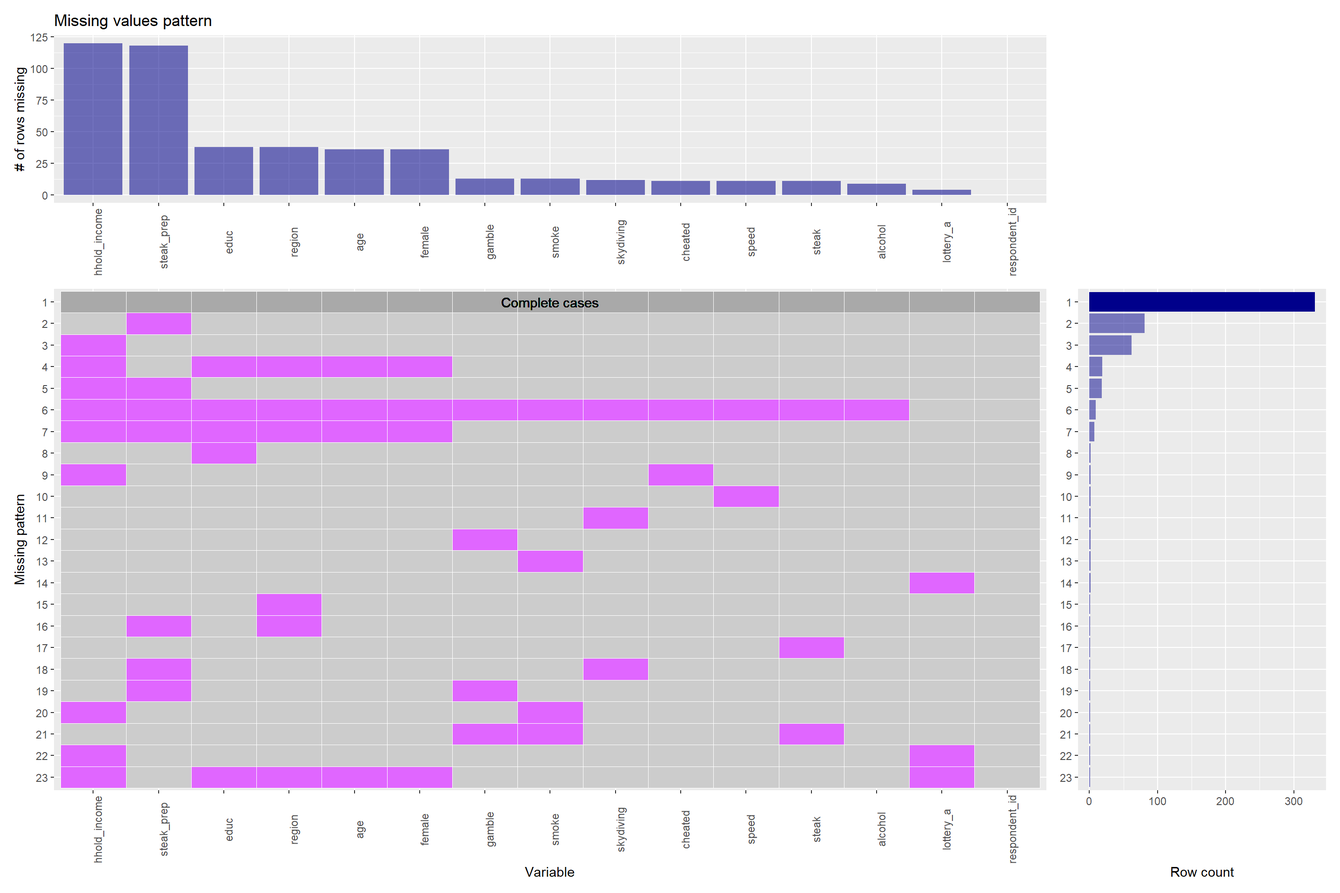
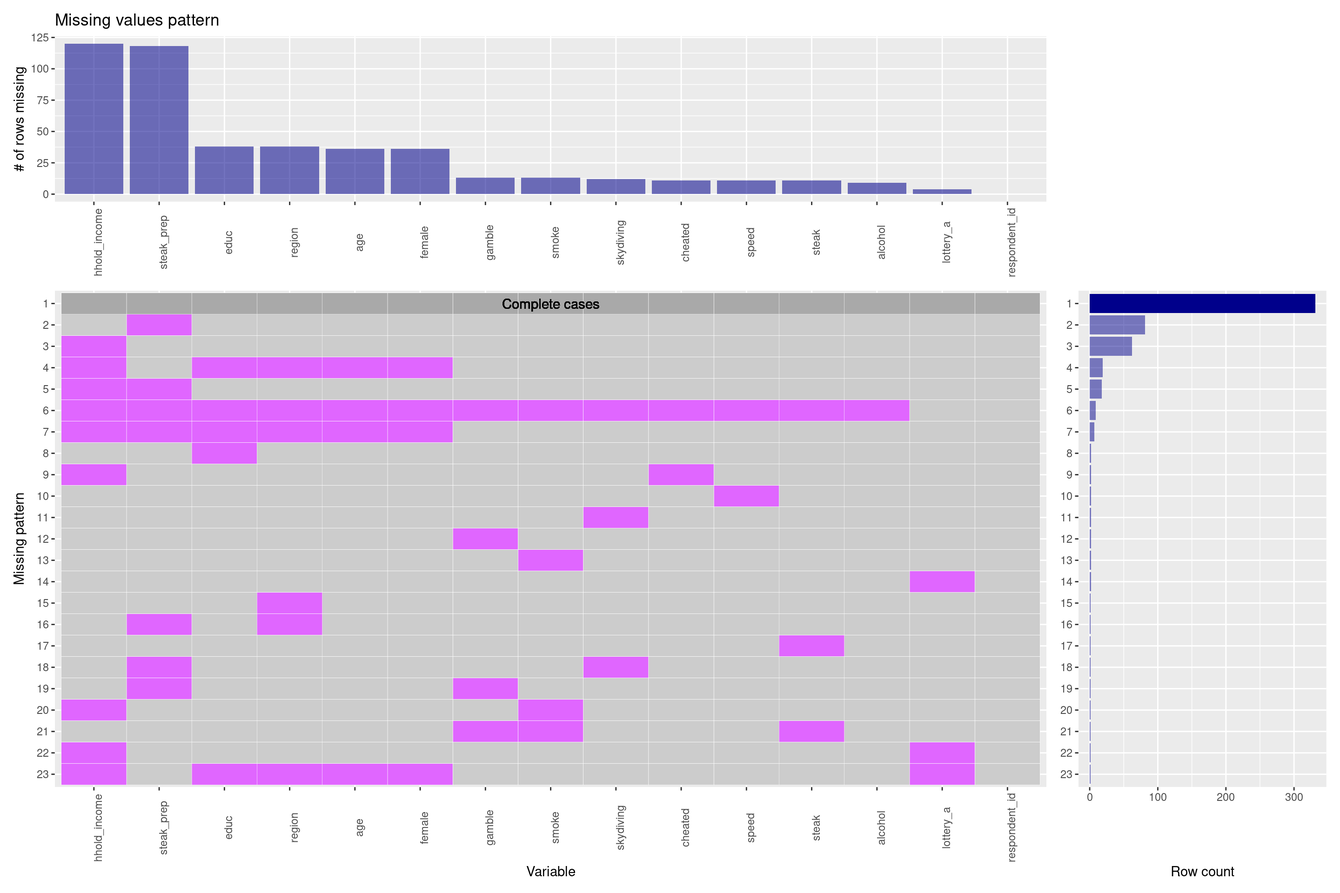
02 health vars

diff --git a/docs/missing-values.html b/docs/missing-values.html
@@ -141,7 +141,12 @@ code span.wa { color: #60a0b0; font-weight: bold; font-style: italic; } /* Warni
 <li class="chapter" data-level="1" data-path="index.html"><a href="index.html"><i class="fa fa-check"></i><b>1</b> Introduction</a></li>
 <li class="chapter" data-level="2" data-path="data-sources.html"><a href="data-sources.html"><i class="fa fa-check"></i><b>2</b> Data sources</a>
 <ul>
-<li class="chapter" data-level="2.1" data-path="data-sources.html"><a href="data-sources.html#health-data"><i class="fa fa-check"></i><b>2.1</b> Health data</a></li>
+<li class="chapter" data-level="2.1" data-path="data-sources.html"><a href="data-sources.html#health-data"><i class="fa fa-check"></i><b>2.1</b> Health data</a>
+<ul>
+<li class="chapter" data-level="2.1.1" data-path="data-sources.html"><a href="data-sources.html#epidemiological-variables"><i class="fa fa-check"></i><b>2.1.1</b> Epidemiological variables</a></li>
+<li class="chapter" data-level="2.1.2" data-path="data-sources.html"><a href="data-sources.html#policy-measures"><i class="fa fa-check"></i><b>2.1.2</b> Policy measures</a></li>
+<li class="chapter" data-level="2.1.3" data-path="data-sources.html"><a href="data-sources.html#administrative-areas"><i class="fa fa-check"></i><b>2.1.3</b> Administrative areas</a></li>
+</ul></li>
 <li class="chapter" data-level="2.2" data-path="data-sources.html"><a href="data-sources.html#macroeconomic-data"><i class="fa fa-check"></i><b>2.2</b> Macroeconomic data</a>
 <ul>
 <li class="chapter" data-level="2.2.1" data-path="data-sources.html"><a href="data-sources.html#economic-growth"><i class="fa fa-check"></i><b>2.2.1</b> Economic Growth</a></li>
@@ -197,38 +202,24 @@ code span.wa { color: #60a0b0; font-weight: bold; font-style: italic; } /* Warni
 <span id="cb5-6"><a href="missing-values.html#cb5-6" aria-hidden="true" tabindex="-1"></a>inflation_us <span class="ot">&lt;-</span> <span class="fu">read.csv</span>(<span class="st">&quot;Data/COVID_usa.csv&quot;</span>, <span class="at">stringsAsFactors =</span> F)</span>
 <span id="cb5-7"><a href="missing-values.html#cb5-7" aria-hidden="true" tabindex="-1"></a></span>
 <span id="cb5-8"><a href="missing-values.html#cb5-8" aria-hidden="true" tabindex="-1"></a></span>
-<span id="cb5-9"><a href="missing-values.html#cb5-9" aria-hidden="true" tabindex="-1"></a><span class="fu">names</span>(inflation_mx)</span></code></pre></div>
-<pre><code>##  [1] &quot;date&quot;                                &quot;confirmed&quot;                          
-##  [3] &quot;deaths&quot;                              &quot;recovered&quot;                          
-##  [5] &quot;tests&quot;                               &quot;vaccines&quot;                           
-##  [7] &quot;people_vaccinated&quot;                   &quot;people_fully_vaccinated&quot;            
-##  [9] &quot;hosp&quot;                                &quot;icu&quot;                                
-## [11] &quot;vent&quot;                                &quot;population&quot;                         
-## [13] &quot;school_closing&quot;                      &quot;workplace_closing&quot;                  
-## [15] &quot;cancel_events&quot;                       &quot;gatherings_restrictions&quot;            
-## [17] &quot;transport_closing&quot;                   &quot;stay_home_restrictions&quot;             
-## [19] &quot;internal_movement_restrictions&quot;      &quot;international_movement_restrictions&quot;
-## [21] &quot;information_campaigns&quot;               &quot;testing_policy&quot;                     
-## [23] &quot;contact_tracing&quot;                     &quot;facial_coverings&quot;                   
-## [25] &quot;vaccination_policy&quot;                  &quot;elderly_people_protection&quot;          
-## [27] &quot;government_response_index&quot;           &quot;stringency_index&quot;                   
-## [29] &quot;containment_health_index&quot;            &quot;economic_support_index&quot;</code></pre>
-<div class="sourceCode" id="cb7"><pre class="sourceCode r"><code class="sourceCode r"><span id="cb7-1"><a href="missing-values.html#cb7-1" aria-hidden="true" tabindex="-1"></a>a<span class="ot">&lt;-</span><span class="fu">c</span>(<span class="st">&quot;date&quot;</span>,<span class="st">&quot;confirmed&quot;</span>,<span class="st">&quot;deaths&quot;</span>, <span class="st">&quot;recovered&quot;</span>,<span class="st">&quot;tests&quot;</span>,<span class="st">&quot;vaccines&quot;</span>,</span>
-<span id="cb7-2"><a href="missing-values.html#cb7-2" aria-hidden="true" tabindex="-1"></a>  <span class="st">&quot;peop_vacc&quot;</span>,<span class="st">&quot;peop_f_vac&quot;</span>,<span class="st">&quot;hosp&quot;</span>,<span class="st">&quot;icu&quot;</span>,<span class="st">&quot;vent&quot;</span>,<span class="st">&quot;population&quot;</span>,</span>
-<span id="cb7-3"><a href="missing-values.html#cb7-3" aria-hidden="true" tabindex="-1"></a>  <span class="st">&quot;school_close&quot;</span>,<span class="st">&quot;workpl_close&quot;</span>,<span class="st">&quot;cancel_events&quot;</span>,<span class="st">&quot;gatherings_res&quot;</span>,</span>
-<span id="cb7-4"><a href="missing-values.html#cb7-4" aria-hidden="true" tabindex="-1"></a>  <span class="st">&quot;transport_close&quot;</span>,<span class="st">&quot;stay_home_r&quot;</span>,<span class="st">&quot;int_move_rest&quot;</span>,</span>
-<span id="cb7-5"><a href="missing-values.html#cb7-5" aria-hidden="true" tabindex="-1"></a>  <span class="st">&quot;internat_move_rest&quot;</span>, <span class="st">&quot;inf_camp&quot;</span>, <span class="st">&quot;test_policy&quot;</span>,<span class="st">&quot;contact_trace&quot;</span>,</span>
-<span id="cb7-6"><a href="missing-values.html#cb7-6" aria-hidden="true" tabindex="-1"></a>  <span class="st">&quot;facial_cover&quot;</span>, <span class="st">&quot;vaccin_policy&quot;</span>, <span class="st">&quot;elderly_peop_protec&quot;</span>, <span class="st">&quot;gover_resp_ind&quot;</span>, <span class="st">&quot;string_ind&quot;</span>, <span class="st">&quot;cont_health_ind&quot;</span>,<span class="st">&quot;econ_supp_ind&quot;</span></span>
-<span id="cb7-7"><a href="missing-values.html#cb7-7" aria-hidden="true" tabindex="-1"></a>  )</span>
-<span id="cb7-8"><a href="missing-values.html#cb7-8" aria-hidden="true" tabindex="-1"></a></span>
-<span id="cb7-9"><a href="missing-values.html#cb7-9" aria-hidden="true" tabindex="-1"></a><span class="fu">visualize_missings</span>(inflation_mx)</span></code></pre></div>
+<span id="cb5-9"><a href="missing-values.html#cb5-9" aria-hidden="true" tabindex="-1"></a><span class="fu">names</span>(inflation_mx)<span class="ot">&lt;-</span><span class="fu">c</span>(<span class="st">&quot;date&quot;</span>,<span class="st">&quot;confirmed&quot;</span>,<span class="st">&quot;deaths&quot;</span>, <span class="st">&quot;recovered&quot;</span>,<span class="st">&quot;tests&quot;</span>,<span class="st">&quot;vaccines&quot;</span>,</span>
+<span id="cb5-10"><a href="missing-values.html#cb5-10" aria-hidden="true" tabindex="-1"></a>  <span class="st">&quot;peop_vacc&quot;</span>,<span class="st">&quot;peop_f_vac&quot;</span>,<span class="st">&quot;hosp&quot;</span>,<span class="st">&quot;icu&quot;</span>,<span class="st">&quot;vent&quot;</span>,<span class="st">&quot;population&quot;</span>,</span>
+<span id="cb5-11"><a href="missing-values.html#cb5-11" aria-hidden="true" tabindex="-1"></a>  <span class="st">&quot;school_close&quot;</span>,<span class="st">&quot;workpl_close&quot;</span>,<span class="st">&quot;cancel_events&quot;</span>,<span class="st">&quot;gatherings_res&quot;</span>,</span>
+<span id="cb5-12"><a href="missing-values.html#cb5-12" aria-hidden="true" tabindex="-1"></a>  <span class="st">&quot;transport_close&quot;</span>,<span class="st">&quot;stay_home_r&quot;</span>,<span class="st">&quot;int_move_rest&quot;</span>,</span>
+<span id="cb5-13"><a href="missing-values.html#cb5-13" aria-hidden="true" tabindex="-1"></a>  <span class="st">&quot;internat_move_rest&quot;</span>, <span class="st">&quot;inf_camp&quot;</span>, <span class="st">&quot;test_policy&quot;</span>,<span class="st">&quot;contact_trace&quot;</span>,</span>
+<span id="cb5-14"><a href="missing-values.html#cb5-14" aria-hidden="true" tabindex="-1"></a>  <span class="st">&quot;facial_cover&quot;</span>, <span class="st">&quot;vaccin_policy&quot;</span>, <span class="st">&quot;elderly_peop_protec&quot;</span>, <span class="st">&quot;gover_resp_ind&quot;</span>, <span class="st">&quot;string_ind&quot;</span>, <span class="st">&quot;cont_health_ind&quot;</span>,<span class="st">&quot;econ_supp_ind&quot;</span></span>
+<span id="cb5-15"><a href="missing-values.html#cb5-15" aria-hidden="true" tabindex="-1"></a>  )</span>
+<span id="cb5-16"><a href="missing-values.html#cb5-16" aria-hidden="true" tabindex="-1"></a></span>
+<span id="cb5-17"><a href="missing-values.html#cb5-17" aria-hidden="true" tabindex="-1"></a><span class="fu">names</span>(inflation_us)<span class="ot">&lt;-</span><span class="fu">names</span>(inflation_mx)</span>
+<span id="cb5-18"><a href="missing-values.html#cb5-18" aria-hidden="true" tabindex="-1"></a></span>
+<span id="cb5-19"><a href="missing-values.html#cb5-19" aria-hidden="true" tabindex="-1"></a><span class="fu">visualize_missings</span>(inflation_mx)</span></code></pre></div>
 <p><img src="finalproj_files/figure-html/unnamed-chunk-11-1.png" width="672" /></p>
-<div class="sourceCode" id="cb8"><pre class="sourceCode r"><code class="sourceCode r"><span id="cb8-1"><a href="missing-values.html#cb8-1" aria-hidden="true" tabindex="-1"></a><span class="fu">visualize_missings</span>(inflation_us)</span></code></pre></div>
+<div class="sourceCode" id="cb6"><pre class="sourceCode r"><code class="sourceCode r"><span id="cb6-1"><a href="missing-values.html#cb6-1" aria-hidden="true" tabindex="-1"></a><span class="fu">visualize_missings</span>(inflation_us)</span></code></pre></div>
 <p><img src="finalproj_files/figure-html/unnamed-chunk-11-2.png" width="672" /></p>
 <p>Thus, we then proceed to showcase <code>visualize_missings</code> on the example dataset:</p>
-<div class="sourceCode" id="cb9"><pre class="sourceCode r"><code class="sourceCode r"><span id="cb9-1"><a href="missing-values.html#cb9-1" aria-hidden="true" tabindex="-1"></a><span class="fu">visualize_missings</span>(fivethirtyeight<span class="sc">::</span>steak_survey,T)</span></code></pre></div>
+<div class="sourceCode" id="cb7"><pre class="sourceCode r"><code class="sourceCode r"><span id="cb7-1"><a href="missing-values.html#cb7-1" aria-hidden="true" tabindex="-1"></a><span class="fu">visualize_missings</span>(fivethirtyeight<span class="sc">::</span>steak_survey,T)</span></code></pre></div>
 <p><img src="finalproj_files/figure-html/unnamed-chunk-12-1.png" width="1440" style="display: block; margin: auto;" /></p>
-<div class="sourceCode" id="cb10"><pre class="sourceCode r"><code class="sourceCode r"><span id="cb10-1"><a href="missing-values.html#cb10-1" aria-hidden="true" tabindex="-1"></a><span class="fu">visualize_missings</span>(fivethirtyeight<span class="sc">::</span>steak_survey,F)</span></code></pre></div>
+<div class="sourceCode" id="cb8"><pre class="sourceCode r"><code class="sourceCode r"><span id="cb8-1"><a href="missing-values.html#cb8-1" aria-hidden="true" tabindex="-1"></a><span class="fu">visualize_missings</span>(fivethirtyeight<span class="sc">::</span>steak_survey,F)</span></code></pre></div>
 <p><img src="finalproj_files/figure-html/unnamed-chunk-12-2.png" width="1440" style="display: block; margin: auto;" /></p>
 <p>We can observe that rows without NAs are the most frequent, accounting for around 60% of them. <code>hhold</code> and <code>steak_prep</code> are the variables with the highest percentage of missing values, having around 20% each.</p>
 <p>Also interesting to note is the fact that when there are NAs in <code>educ</code>, there are also NAs in <code>region</code>, <code>age</code> and <code>female</code>, indicating that such variables come in batch.</p>

diff --git a/docs/data-sources.html b/docs/data-sources.html
@@ -141,7 +141,12 @@ code span.wa { color: #60a0b0; font-weight: bold; font-style: italic; } /* Warni
 <li class="chapter" data-level="1" data-path="index.html"><a href="index.html"><i class="fa fa-check"></i><b>1</b> Introduction</a></li>
 <li class="chapter" data-level="2" data-path="data-sources.html"><a href="data-sources.html"><i class="fa fa-check"></i><b>2</b> Data sources</a>
 <ul>
-<li class="chapter" data-level="2.1" data-path="data-sources.html"><a href="data-sources.html#health-data"><i class="fa fa-check"></i><b>2.1</b> Health data</a></li>
+<li class="chapter" data-level="2.1" data-path="data-sources.html"><a href="data-sources.html#health-data"><i class="fa fa-check"></i><b>2.1</b> Health data</a>
+<ul>
+<li class="chapter" data-level="2.1.1" data-path="data-sources.html"><a href="data-sources.html#epidemiological-variables"><i class="fa fa-check"></i><b>2.1.1</b> Epidemiological variables</a></li>
+<li class="chapter" data-level="2.1.2" data-path="data-sources.html"><a href="data-sources.html#policy-measures"><i class="fa fa-check"></i><b>2.1.2</b> Policy measures</a></li>
+<li class="chapter" data-level="2.1.3" data-path="data-sources.html"><a href="data-sources.html#administrative-areas"><i class="fa fa-check"></i><b>2.1.3</b> Administrative areas</a></li>
+</ul></li>
 <li class="chapter" data-level="2.2" data-path="data-sources.html"><a href="data-sources.html#macroeconomic-data"><i class="fa fa-check"></i><b>2.2</b> Macroeconomic data</a>
 <ul>
 <li class="chapter" data-level="2.2.1" data-path="data-sources.html"><a href="data-sources.html#economic-growth"><i class="fa fa-check"></i><b>2.2.1</b> Economic Growth</a></li>
@@ -196,6 +201,60 @@ code span.wa { color: #60a0b0; font-weight: bold; font-style: italic; } /* Warni
 </ul>
 <div id="health-data" class="section level2" number="2.1">
 <h2><span class="header-section-number">2.1</span> Health data</h2>
+<p>For this category of variables, team member Ulises Hernandez located a very well polished R package <a href="https://covid19datahub.io/">COVID19</a> of data related to the COVID-19 pandemic. This repository was was initiated by Emanuele Guidotti (University of Neuchâtel), leveraged by David Ardia (HEC Montréal), enhanced by the open source community, and is currently maintained by Emanuele Guidotti.</p>
+<p>The initiative has aggregated data of many countries, but we restricted our use to only data corresponding to the US and Mexico. The variables in the data set can classified in three broad categories:</p>
+<div id="epidemiological-variables" class="section level3" number="2.1.1">
+<h3><span class="header-section-number">2.1.1</span> Epidemiological variables</h3>
+<p>This group of variables includes the following variables:</p>
+<ul>
+<li><code>confirmed</code>: Cumulative number of confirmed cases.</li>
+<li><code>deaths</code>: Cumulative number of deaths.</li>
+<li><code>recovered</code>: Cumulative number of patients released from hospitals or reported recovered.</li>
+<li><code>tests</code>: Cumulative number of tests.</li>
+<li><code>vaccines</code>: Cumulative number of total doses administered.</li>
+<li><code>people_vaccinated</code>: Cumulative number of people who received at least one vaccine dose.</li>
+<li><code>people_fully_vaccinated</code>: Cumulative number of people who received all doses prescribed by the vaccination protocol.</li>
+<li><code>hosp</code>: Number of hospitalized patients on date.</li>
+<li><code>icu</code>: Number of hospitalized patients in intensive therapy on date.</li>
+<li><code>vent</code>: Number of patients requiring invasive ventilation on date.</li>
+<li><code>population</code>: Total population.</li>
+</ul>
+</div>
+<div id="policy-measures" class="section level3" number="2.1.2">
+<h3><span class="header-section-number">2.1.2</span> Policy measures</h3>
+<p>According to the documentation of the data hub, policy measures are provided by <a href="https://github.com/OxCGRT/covid-policy-tracker">Oxford Covid-19 Government Response Tracker</a>. As one can expect with this kind of data, policies not only vary by country, but even by region within given country. For this reason, the tracker uses flag variables to denote this limited scope of different measures. That is, the indicators have a flag for whether they are”targeted” to a specific geographical region (flag=0) or whether they are a “general” policy that is applied across the whole country/territory (flag=1). The compiled variables are the following:</p>
+<ul>
+<li><code>school_closing</code></li>
+<li><code>workplace_closing</code></li>
+<li><code>cancel_events</code></li>
+<li><code>gatherings_restrictions</code></li>
+<li><code>transport_closing</code></li>
+<li><code>stay_home_restrictions</code></li>
+<li><code>internal_movement_restrictions</code></li>
+<li><code>international_movement_restrictions</code></li>
+<li><code>information_campaigns</code></li>
+<li><code>testing_policy</code></li>
+<li><code>contact_tracing</code></li>
+<li><code>facial_coverings</code></li>
+<li><code>vaccination_policy</code></li>
+<li><code>elderly_people_protection</code></li>
+<li><code>government_response_index</code></li>
+<li><code>stringency_index</code></li>
+<li><code>containment_health_index</code></li>
+<li><code>economic_support_index</code></li>
+</ul>
+</div>
+<div id="administrative-areas" class="section level3" number="2.1.3">
+<h3><span class="header-section-number">2.1.3</span> Administrative areas</h3>
+<p>Finally, the data hub also compiles data on the administrative area:</p>
+<ul>
+<li><code>administrative_area_level</code>: Level of the administrative area: 1 for countries; 2 for states, regions, cantons, or local * * `equivalent; 3 for cities, municipalities, or local equivalent.</li>
+<li><code>administrative_area_level_1</code>: Name of the administrative area of level 1.</li>
+<li><code>administrative_area_level_2</code>: Name of the administrative area of level 2.</li>
+<li><code>administrative_area_level_3</code>: Name of the administrative area of level 3.</li>
+</ul>
+<p>For a more detailed explanation of the variables just explained, the <a href="https://covid19datahub.io/articles/docs.html">documentation page</a> of the data hub is an excellent resource for people interested in using this data set.</p>
+</div>
 </div>
 <div id="macroeconomic-data" class="section level2" number="2.2">
 <h2><span class="header-section-number">2.2</span> Macroeconomic data</h2>

diff --git a/docs/404.html b/docs/404.html
@@ -141,7 +141,12 @@ code span.wa { color: #60a0b0; font-weight: bold; font-style: italic; } /* Warni
 <li class="chapter" data-level="1" data-path="index.html"><a href="index.html"><i class="fa fa-check"></i><b>1</b> Introduction</a></li>
 <li class="chapter" data-level="2" data-path="data-sources.html"><a href="data-sources.html"><i class="fa fa-check"></i><b>2</b> Data sources</a>
 <ul>
-<li class="chapter" data-level="2.1" data-path="data-sources.html"><a href="data-sources.html#health-data"><i class="fa fa-check"></i><b>2.1</b> Health data</a></li>
+<li class="chapter" data-level="2.1" data-path="data-sources.html"><a href="data-sources.html#health-data"><i class="fa fa-check"></i><b>2.1</b> Health data</a>
+<ul>
+<li class="chapter" data-level="2.1.1" data-path="data-sources.html"><a href="data-sources.html#epidemiological-variables"><i class="fa fa-check"></i><b>2.1.1</b> Epidemiological variables</a></li>
+<li class="chapter" data-level="2.1.2" data-path="data-sources.html"><a href="data-sources.html#policy-measures"><i class="fa fa-check"></i><b>2.1.2</b> Policy measures</a></li>
+<li class="chapter" data-level="2.1.3" data-path="data-sources.html"><a href="data-sources.html#administrative-areas"><i class="fa fa-check"></i><b>2.1.3</b> Administrative areas</a></li>
+</ul></li>
 <li class="chapter" data-level="2.2" data-path="data-sources.html"><a href="data-sources.html#macroeconomic-data"><i class="fa fa-check"></i><b>2.2</b> Macroeconomic data</a>
 <ul>
 <li class="chapter" data-level="2.2.1" data-path="data-sources.html"><a href="data-sources.html#economic-growth"><i class="fa fa-check"></i><b>2.2.1</b> Economic Growth</a></li>

diff --git a/docs/conclusion.html b/docs/conclusion.html
@@ -141,7 +141,12 @@ code span.wa { color: #60a0b0; font-weight: bold; font-style: italic; } /* Warni
 <li class="chapter" data-level="1" data-path="index.html"><a href="index.html"><i class="fa fa-check"></i><b>1</b> Introduction</a></li>
 <li class="chapter" data-level="2" data-path="data-sources.html"><a href="data-sources.html"><i class="fa fa-check"></i><b>2</b> Data sources</a>
 <ul>
-<li class="chapter" data-level="2.1" data-path="data-sources.html"><a href="data-sources.html#health-data"><i class="fa fa-check"></i><b>2.1</b> Health data</a></li>
+<li class="chapter" data-level="2.1" data-path="data-sources.html"><a href="data-sources.html#health-data"><i class="fa fa-check"></i><b>2.1</b> Health data</a>
+<ul>
+<li class="chapter" data-level="2.1.1" data-path="data-sources.html"><a href="data-sources.html#epidemiological-variables"><i class="fa fa-check"></i><b>2.1.1</b> Epidemiological variables</a></li>
+<li class="chapter" data-level="2.1.2" data-path="data-sources.html"><a href="data-sources.html#policy-measures"><i class="fa fa-check"></i><b>2.1.2</b> Policy measures</a></li>
+<li class="chapter" data-level="2.1.3" data-path="data-sources.html"><a href="data-sources.html#administrative-areas"><i class="fa fa-check"></i><b>2.1.3</b> Administrative areas</a></li>
+</ul></li>
 <li class="chapter" data-level="2.2" data-path="data-sources.html"><a href="data-sources.html#macroeconomic-data"><i class="fa fa-check"></i><b>2.2</b> Macroeconomic data</a>
 <ul>
 <li class="chapter" data-level="2.2.1" data-path="data-sources.html"><a href="data-sources.html#economic-growth"><i class="fa fa-check"></i><b>2.2.1</b> Economic Growth</a></li>

diff --git a/docs/data-transformation.html b/docs/data-transformation.html
@@ -141,7 +141,12 @@ code span.wa { color: #60a0b0; font-weight: bold; font-style: italic; } /* Warni
 <li class="chapter" data-level="1" data-path="index.html"><a href="index.html"><i class="fa fa-check"></i><b>1</b> Introduction</a></li>
 <li class="chapter" data-level="2" data-path="data-sources.html"><a href="data-sources.html"><i class="fa fa-check"></i><b>2</b> Data sources</a>
 <ul>
-<li class="chapter" data-level="2.1" data-path="data-sources.html"><a href="data-sources.html#health-data"><i class="fa fa-check"></i><b>2.1</b> Health data</a></li>
+<li class="chapter" data-level="2.1" data-path="data-sources.html"><a href="data-sources.html#health-data"><i class="fa fa-check"></i><b>2.1</b> Health data</a>
+<ul>
+<li class="chapter" data-level="2.1.1" data-path="data-sources.html"><a href="data-sources.html#epidemiological-variables"><i class="fa fa-check"></i><b>2.1.1</b> Epidemiological variables</a></li>
+<li class="chapter" data-level="2.1.2" data-path="data-sources.html"><a href="data-sources.html#policy-measures"><i class="fa fa-check"></i><b>2.1.2</b> Policy measures</a></li>
+<li class="chapter" data-level="2.1.3" data-path="data-sources.html"><a href="data-sources.html#administrative-areas"><i class="fa fa-check"></i><b>2.1.3</b> Administrative areas</a></li>
+</ul></li>
 <li class="chapter" data-level="2.2" data-path="data-sources.html"><a href="data-sources.html#macroeconomic-data"><i class="fa fa-check"></i><b>2.2</b> Macroeconomic data</a>
 <ul>
 <li class="chapter" data-level="2.2.1" data-path="data-sources.html"><a href="data-sources.html#economic-growth"><i class="fa fa-check"></i><b>2.2.1</b> Economic Growth</a></li>

diff --git a/docs/index.html b/docs/index.html
@@ -141,7 +141,12 @@ code span.wa { color: #60a0b0; font-weight: bold; font-style: italic; } /* Warni
 <li class="chapter" data-level="1" data-path="index.html"><a href="index.html"><i class="fa fa-check"></i><b>1</b> Introduction</a></li>
 <li class="chapter" data-level="2" data-path="data-sources.html"><a href="data-sources.html"><i class="fa fa-check"></i><b>2</b> Data sources</a>
 <ul>
-<li class="chapter" data-level="2.1" data-path="data-sources.html"><a href="data-sources.html#health-data"><i class="fa fa-check"></i><b>2.1</b> Health data</a></li>
+<li class="chapter" data-level="2.1" data-path="data-sources.html"><a href="data-sources.html#health-data"><i class="fa fa-check"></i><b>2.1</b> Health data</a>
+<ul>
+<li class="chapter" data-level="2.1.1" data-path="data-sources.html"><a href="data-sources.html#epidemiological-variables"><i class="fa fa-check"></i><b>2.1.1</b> Epidemiological variables</a></li>
+<li class="chapter" data-level="2.1.2" data-path="data-sources.html"><a href="data-sources.html#policy-measures"><i class="fa fa-check"></i><b>2.1.2</b> Policy measures</a></li>
+<li class="chapter" data-level="2.1.3" data-path="data-sources.html"><a href="data-sources.html#administrative-areas"><i class="fa fa-check"></i><b>2.1.3</b> Administrative areas</a></li>
+</ul></li>
 <li class="chapter" data-level="2.2" data-path="data-sources.html"><a href="data-sources.html#macroeconomic-data"><i class="fa fa-check"></i><b>2.2</b> Macroeconomic data</a>
 <ul>
 <li class="chapter" data-level="2.2.1" data-path="data-sources.html"><a href="data-sources.html#economic-growth"><i class="fa fa-check"></i><b>2.2.1</b> Economic Growth</a></li>

diff --git a/docs/interactive-component.html b/docs/interactive-component.html
@@ -141,7 +141,12 @@ code span.wa { color: #60a0b0; font-weight: bold; font-style: italic; } /* Warni
 <li class="chapter" data-level="1" data-path="index.html"><a href="index.html"><i class="fa fa-check"></i><b>1</b> Introduction</a></li>
 <li class="chapter" data-level="2" data-path="data-sources.html"><a href="data-sources.html"><i class="fa fa-check"></i><b>2</b> Data sources</a>
 <ul>
-<li class="chapter" data-level="2.1" data-path="data-sources.html"><a href="data-sources.html#health-data"><i class="fa fa-check"></i><b>2.1</b> Health data</a></li>
+<li class="chapter" data-level="2.1" data-path="data-sources.html"><a href="data-sources.html#health-data"><i class="fa fa-check"></i><b>2.1</b> Health data</a>
+<ul>
+<li class="chapter" data-level="2.1.1" data-path="data-sources.html"><a href="data-sources.html#epidemiological-variables"><i class="fa fa-check"></i><b>2.1.1</b> Epidemiological variables</a></li>
+<li class="chapter" data-level="2.1.2" data-path="data-sources.html"><a href="data-sources.html#policy-measures"><i class="fa fa-check"></i><b>2.1.2</b> Policy measures</a></li>
+<li class="chapter" data-level="2.1.3" data-path="data-sources.html"><a href="data-sources.html#administrative-areas"><i class="fa fa-check"></i><b>2.1.3</b> Administrative areas</a></li>
+</ul></li>
 <li class="chapter" data-level="2.2" data-path="data-sources.html"><a href="data-sources.html#macroeconomic-data"><i class="fa fa-check"></i><b>2.2</b> Macroeconomic data</a>
 <ul>
 <li class="chapter" data-level="2.2.1" data-path="data-sources.html"><a href="data-sources.html#economic-growth"><i class="fa fa-check"></i><b>2.2.1</b> Economic Growth</a></li>

diff --git a/docs/results.html b/docs/results.html
@@ -141,7 +141,12 @@ code span.wa { color: #60a0b0; font-weight: bold; font-style: italic; } /* Warni
 <li class="chapter" data-level="1" data-path="index.html"><a href="index.html"><i class="fa fa-check"></i><b>1</b> Introduction</a></li>
 <li class="chapter" data-level="2" data-path="data-sources.html"><a href="data-sources.html"><i class="fa fa-check"></i><b>2</b> Data sources</a>
 <ul>
-<li class="chapter" data-level="2.1" data-path="data-sources.html"><a href="data-sources.html#health-data"><i class="fa fa-check"></i><b>2.1</b> Health data</a></li>
+<li class="chapter" data-level="2.1" data-path="data-sources.html"><a href="data-sources.html#health-data"><i class="fa fa-check"></i><b>2.1</b> Health data</a>
+<ul>
+<li class="chapter" data-level="2.1.1" data-path="data-sources.html"><a href="data-sources.html#epidemiological-variables"><i class="fa fa-check"></i><b>2.1.1</b> Epidemiological variables</a></li>
+<li class="chapter" data-level="2.1.2" data-path="data-sources.html"><a href="data-sources.html#policy-measures"><i class="fa fa-check"></i><b>2.1.2</b> Policy measures</a></li>
+<li class="chapter" data-level="2.1.3" data-path="data-sources.html"><a href="data-sources.html#administrative-areas"><i class="fa fa-check"></i><b>2.1.3</b> Administrative areas</a></li>
+</ul></li>
 <li class="chapter" data-level="2.2" data-path="data-sources.html"><a href="data-sources.html#macroeconomic-data"><i class="fa fa-check"></i><b>2.2</b> Macroeconomic data</a>
 <ul>
 <li class="chapter" data-level="2.2.1" data-path="data-sources.html"><a href="data-sources.html#economic-growth"><i class="fa fa-check"></i><b>2.2.1</b> Economic Growth</a></li>
